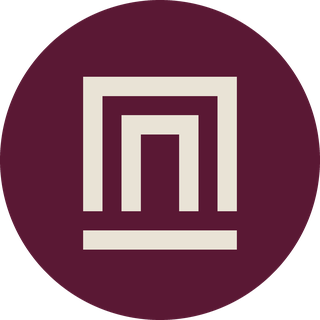
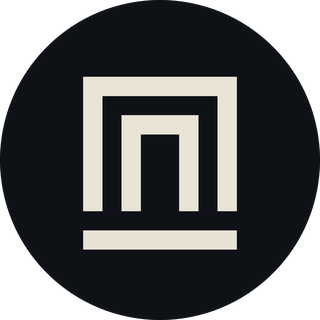
Brand: isotipo in ivory on ink; wine and cobalt back where they were (D-233)
Claude-Session: https://claude.ai/code/session_019UapoqyRvsrdSFBHYvpDba

diff --git a/assets/css/sala.css b/assets/css/sala.css
@@ -164,7 +164,7 @@ dialog.sala::backdrop { background: var(--naos-night); }
 .hoy { list-style: none; margin: 0 0 14px; padding: 0; }
 .hoy li { display: grid; grid-template-columns: 28px minmax(0, 1fr); gap: 8px; padding: 8px 0; border-top: 1px solid var(--naos-rule); font-size: 15px; line-height: 1.5; color: var(--naos-ink); }
 .hoy li:first-child { border-top: 2px solid var(--naos-ink); }
-.hoy-i { font-family: var(--font-cond); font-weight: 600; font-size: 15px; color: var(--vino); } /* vino: número índice, es marca (D-232) */
+.hoy-i { font-family: var(--font-cond); font-weight: 600; font-size: 15px; color: var(--lab-accent); } /* cobalto: solo número índice (G3) */
 .como-txt .como-met { font-size: 13px; color: var(--naos-sec); }
 .cn-e { font-size: 13px; line-height: 1.4; color: var(--naos-ink); padding: 4px 0 2px; border-top: 1px dashed var(--naos-rule); }
 .cn-e b { font-weight: 600; }
@@ -208,7 +208,7 @@ dialog.sala::backdrop { background: var(--naos-night); }
   /* vino (D-224): acento raro, a lo sumo UN elemento por vista, para un caso especial (hoy: el próximo evento rojo de EE. UU.).
      Se usa solo como plano con texto claro, nunca como color de cifra: así no se confunde con el borgoña de "baja".
      #5A1834 con #F4F6F8 da 12,9:1; el plano se ve sobre blanco (11,9:1 contra el papel) y sobre noche lleva filete claro. */
-  --vino-texto: #F4F6F8; --vino-sec: #E3C9D3; }
+  --vino: #5A1834; --vino-texto: #F4F6F8; --vino-sec: #E3C9D3; }
 .cifras { display: inline-flex; flex-wrap: wrap; gap: 6px 14px; align-items: baseline; }
 .cf { display: inline-flex; align-items: baseline; gap: 6px; white-space: nowrap; font-size: 14px; }
 .cf-k { font-family: var(--font-cond); font-weight: 600; font-size: 11px; letter-spacing: .05em; text-transform: uppercase; color: var(--naos-grey); }
@@ -268,7 +268,6 @@ dialog.sala::backdrop { background: var(--naos-night); }
 .b-odds:hover .b-o, .b-odds:focus-visible .b-o { text-decoration: underline; text-underline-offset: 3px; }
 .b-evento { grid-column: 11 / 13; grid-row: 1; background: var(--vino); color: var(--vino-texto); }
 .b-evento .b-k, .b-evento .b-pie, .b-evento a { color: var(--vino-sec); }
-.b-evento a { text-decoration-color: currentColor; } /* el subrayado vino no se ve sobre vino */
 .b-ev { font-family: var(--font-serif); font-size: 19px; line-height: 1.2; }
 .b-evento .b-n { font-family: var(--font-cond); font-weight: 600; font-size: 34px; line-height: 1; letter-spacing: .01em; }
 .b-graf { grid-column: 7 / 10; grid-row: 2; }
@@ -320,7 +319,7 @@ a.sf:hover, a.sf:focus-visible { border-color: var(--acento); color: var(--acent
 .sem-s { padding: 10px 8px; font-size: 13px; letter-spacing: .05em; border-left: 4px solid var(--sc); border-bottom: 1px solid var(--naos-rule); color: var(--naos-ink); }
 .sem-c { display: flex; flex-direction: column; gap: 4px; padding: 8px 6px; border-bottom: 1px solid var(--naos-rule); border-left: 1px solid var(--naos-rule); min-height: 46px; }
 .sem-c.tbd { background: var(--lab-paper); }
-.sem-h span.hoy { color: var(--naos-ink); box-shadow: inset 0 -2px 0 var(--vino); }
+.sem-h span.hoy { color: var(--naos-ink); box-shadow: inset 0 -2px 0 var(--acento); }
 .sem-nav { display: flex; align-items: center; gap: 12px; margin: 0 0 14px; }
 .sem-b { min-height: 40px; padding: 6px 14px; border: 1px solid var(--naos-ink); background: var(--naos-paper); font-size: 13px; font-weight: 600; cursor: pointer; white-space: nowrap; }
 .sem-b:hover:not(:disabled), .sem-b:focus-visible { background: var(--naos-ink); color: var(--naos-paper); }

diff --git a/assets/comun/tokens.css b/assets/comun/tokens.css
@@ -42,12 +42,7 @@
   --lab-paper: #F1F3F6;         /* papel gris frío muy claro, sin crema */
   --lab-accent: #2438C7;        /* cobalto: SOLO números índice, marcas de capítulo y el asterisco; nunca en datos */
   --lab-night-accent: #8C9BFF;  /* el mismo cobalto aclarado para la noche */
-  --lab-rule: #D5DAE1;
-
-  /* ---------- color: marca (D-232): el vino es NAOS, el cobalto es dato ---------- */
-  --vino: #5A1834;              /* isotipo, números de la lectura, "hoy" de la grilla, subrayado de enlaces; #F4F6F8 encima 12,9:1 */
-  --vino-marfil: #E9E3D6;       /* la forma del isotipo */
-  --vino-noche: #E3C9D3;        /* el vino sobre noche (subrayados): el #5A1834 sobre #0E1116 no se ve */          /* separador decorativo sobre --lab-paper */
+  --lab-rule: #D5DAE1;          /* separador decorativo sobre --lab-paper */
 
   /* ---------- tipo ---------- */
   --font-serif: "Newsreader", Georgia, serif;                        /* cifra héroe, titular, palabra del ejercicio (de D) */

diff --git a/assets/css/v1plus.css b/assets/css/v1plus.css
@@ -9,7 +9,7 @@ body { font-size: 14px; }
 /* barra superior */
 .barra { display: grid; grid-template-columns: auto 1fr auto; align-items: center; gap: 24px; padding: 14px var(--page-gutter); border-bottom: 2px solid var(--naos-ink); }
 .marca { display: flex; align-items: baseline; gap: 14px; }
-.iso { width: 30px; height: 30px; align-self: center; flex: none; } /* isotipo v4, marfil sobre vino (D-232) */
+.iso { width: 30px; height: 30px; align-self: center; flex: none; } /* isotipo v4, marfil sobre tinta (D-233) */
 .naos { font-family: var(--font-serif); font-weight: 400; font-size: 30px; letter-spacing: -.01em; line-height: 1; }
 .lema { font-size: 13px; color: var(--naos-sec); }
 .indice { display: flex; gap: 24px; justify-content: center; font-size: 14px; flex-wrap: wrap; }

diff --git a/assets/comun/base.css b/assets/comun/base.css
@@ -6,8 +6,7 @@ html, body { margin: 0; padding: 0; }
 body { background: var(--naos-paper); color: var(--naos-ink); font-family: var(--font-sans); font-size: 16px; line-height: 1.45;
   overflow-x: clip; -webkit-font-smoothing: antialiased; }
 img, svg, canvas { display: block; max-width: 100%; }
-a { color: inherit; text-decoration-thickness: 1px; text-underline-offset: 3px; text-decoration-color: var(--vino); }
-.noche a, .sala a, .panel.noche a { text-decoration-color: var(--vino-noche); }
+a { color: inherit; text-decoration-thickness: 1px; text-underline-offset: 3px; }
 a:hover { text-decoration-thickness: 2px; }
 button { font: inherit; color: inherit; }
 :focus-visible { outline: 2px solid currentColor; outline-offset: 3px; }
